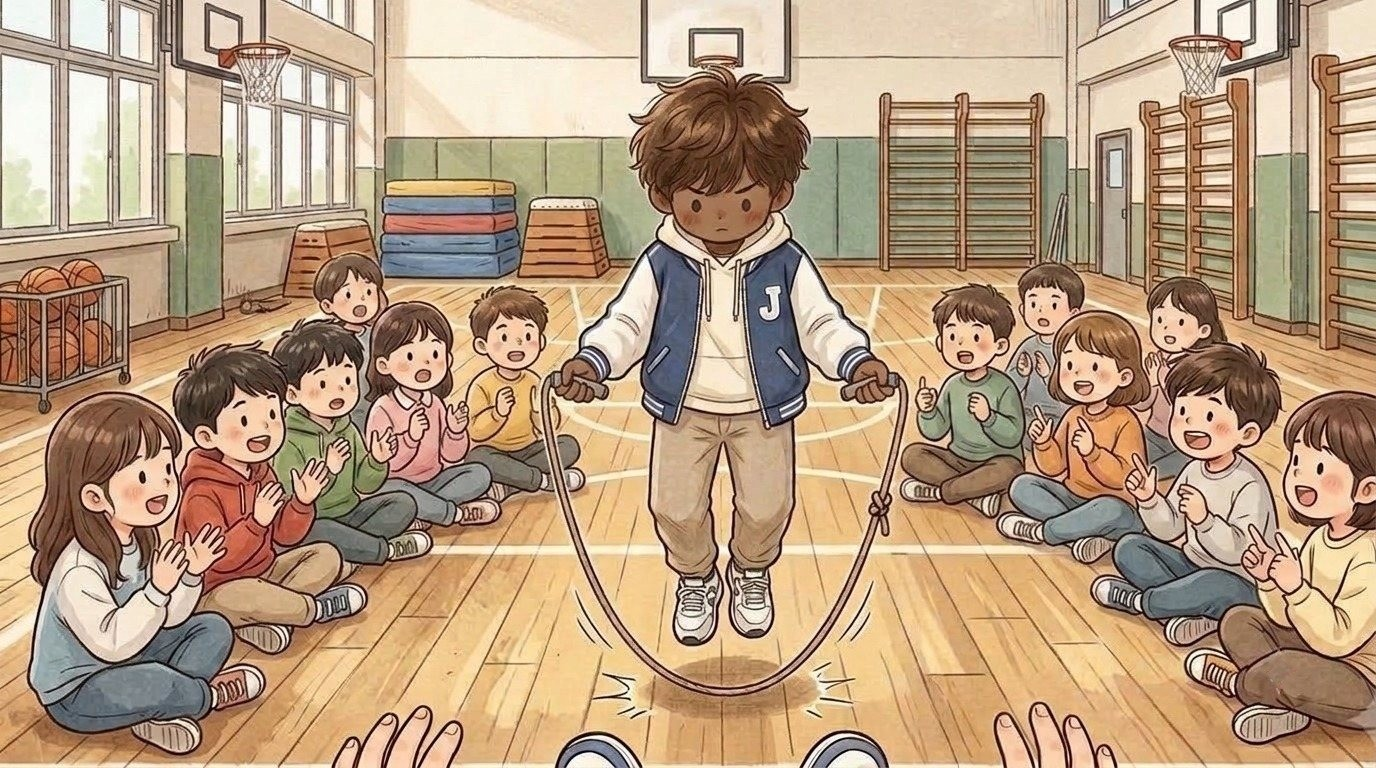
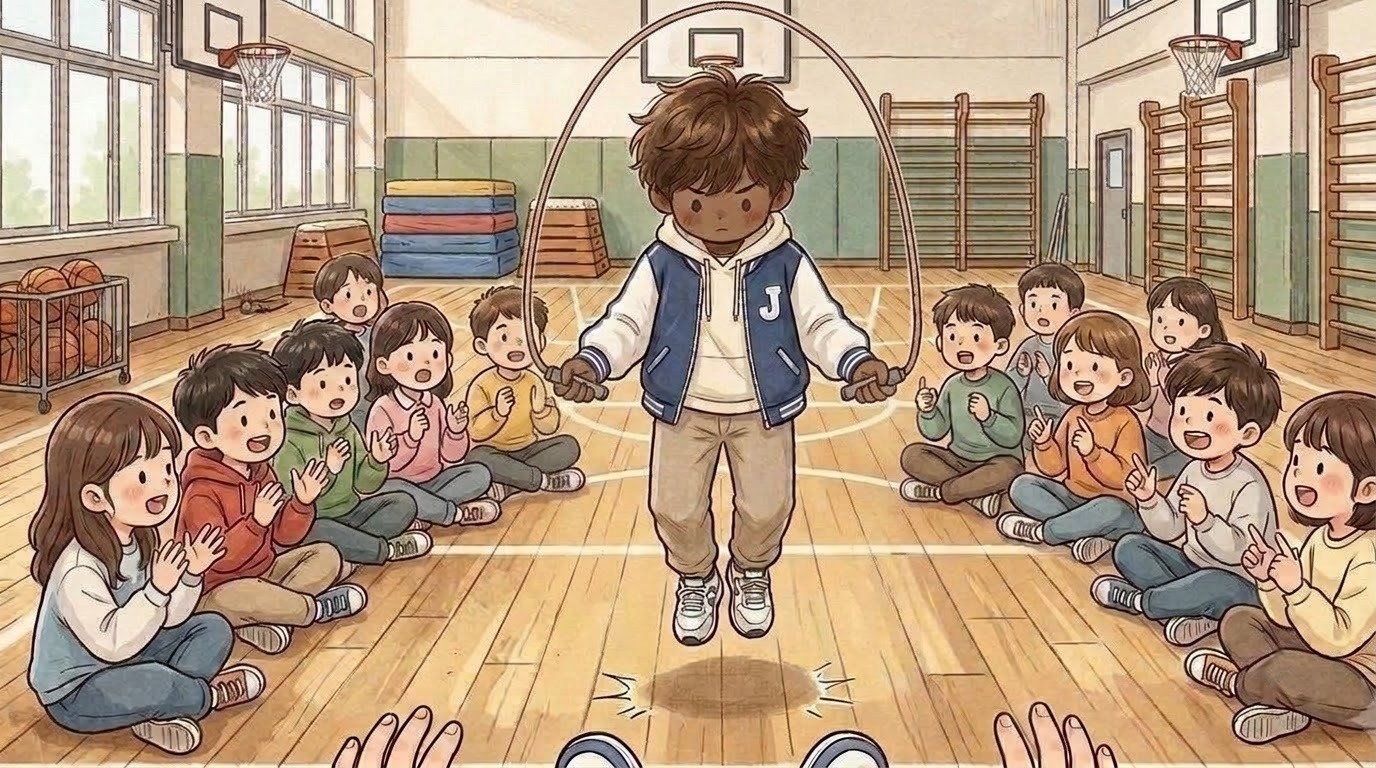
지호 08a·08b(Flow 새 그림) 반짝이 별 지움, 08b 새 그림 배포

diff --git a/index.html b/index.html
@@ -119,14 +119,14 @@ body,button{word-break:keep-all;overflow-wrap:break-word}
 <div id="fader"></div>
 <script>
 // same address, newest version: if the page this phone has kept is older than the one online, fetch the new one and reopen
-const BUILD='1109094702';
+const BUILD='1109095837';
 try{fetch(location.pathname,{cache:'no-store'}).then(r=>r.text()).then(t=>{const m=t.match(/const BUILD='(\d+)'/);if(m&&m[1]!==BUILD&&sessionStorage.getItem('upd')!==m[1]){sessionStorage.setItem('upd',m[1]);fetch(location.pathname,{cache:'reload'}).then(()=>location.reload())}}).catch(()=>{})}catch(e){}
 </script>
-<script src="i18n.js?v=1109094702"></script>
-<script src="i18n_prologue_v2.js?v=1109094702"></script>
-<script src="day2/i18n_engine.js?v=1109094702"></script>
-<script src="day2/data.js?v=1109094702"></script>
-<script src="day3/data.js?v=1109094702"></script>
+<script src="i18n.js?v=1109095837"></script>
+<script src="i18n_prologue_v2.js?v=1109095837"></script>
+<script src="day2/i18n_engine.js?v=1109095837"></script>
+<script src="day2/data.js?v=1109095837"></script>
+<script src="day3/data.js?v=1109095837"></script>
 <script>
 // ---------- data ----------
 const MW=1672,MH=941,KID=180;
@@ -569,36 +569,36 @@ function pickHero(){const m=document.getElementById('modal'),c=document.getEleme
  c.innerHTML=`<h2>${tr('전학생 반장되기')}</h2><p>${tr('한국말이 아직 서툰 전학생,<br>반장 선거에 나가다.')}</p><p style="margin-top:14px">${tr('누구로 할까요?')}</p>${(()=>{const s=loadSave();return s&&s.day>=2&&s.mode===UI+'-'+LANG?`<p><button class="big" id="cont">${tr('{n}일차부터 이어 하기').replace('{n}',s.day)}</button></p>`:''})()}<div class="pick heroes"><button data-h="hero_f"><img src="faces/hero_f_smile.jpg" alt="여자 주인공">${heroName(1)}</button><button data-h="hero_m"><img src="faces/hero_m_smile.jpg" alt="남자 주인공">${heroName(0)}</button></div>`;
  m.classList.add('on');{const cb=document.getElementById('cont');if(cb)cb.onclick=()=>{const s=loadSave();HERO=s.hero;Object.assign(HEART,s.heart||{});(s.found||[]).forEach(k=>FOUND.add(k));HEART_D1={...HEART};chime();(typeof contGame==='function'?contGame(s):startDay(Math.min(s.day,Object.keys(window.D3||{}).length?3:2)))}}c.querySelectorAll('.pick button').forEach(b=>b.onclick=()=>{HERO=b.dataset.h;m.classList.remove('on');chime();bgm('day');load('home_am');say([['nar','','이사 온 다음 날 아침. 아직 풀지 못한 상자들이 쌓여 있다.'],['think','sad','(오늘부터 새 학교야. 여기 말도 아직 서툰데…….)'],['think','smile','({m}한테 인사하고 학교 가야지.)']],morning)})}
 </script>
-<script src="day2/engine.js?v=1109094702"></script>
-<script src="day2/ep_minho.js?v=1109094702"></script>
-<script src="day2/meet.js?v=1109094702"></script>
-<script src="day2/ep_sua.js?v=1109094702"></script>
-<script src="day2/ep_hangyeol.js?v=1109094702"></script>
-<script src="day2/ep_siwoo.js?v=1109094702"></script>
-<script src="day2/ep_haram.js?v=1109094702"></script>
-<script src="day2/ep_jiho.js?v=1109094702"></script>
-<script src="day2/ep_hyeeun.js?v=1109094702"></script>
-<script src="day2/ep_haneul.js?v=1109094702"></script>
-<script src="day2/ep_junho.js?v=1109094702"></script>
-<script src="day2/ep_yuna.js?v=1109094702"></script>
-<script src="day2/ep_yena.js?v=1109094702"></script>
-<script src="day2/ep_haeun.js?v=1109094702"></script>
-<script src="day2/ep_youngmin.js?v=1109094702"></script>
-<script src="day2/ep_seah.js?v=1109094702"></script>
-<script src="day2/ep_jihoon.js?v=1109094702"></script>
-<script src="words_ja_ru.js?v=1109094702"></script>
-<script src="day2/mybag.js?v=1109094702"></script>
-<script src="day2/wordpics.js?v=1109094702"></script>
-<script src="day2/spots.js?v=1109094702"></script>
-<script src="day2/textfit.js?v=1109094702"></script>
-<script src="day2/tester.js?v=1109094702"></script>
-<script src="day2/ux.js?v=1109094702"></script>
-<script src="day2/tapword.js?v=1109094702"></script>
-<script src="day2/review.js?v=1109094702"></script>
-<script src="day2/plane.js?v=1109094702"></script>
-<script src="day2/bubble.js?v=1109094702"></script>
-<script src="day2/ep_ending.js?v=1109094702"></script>
-<script src="day2/ending.js?v=1109094702"></script>
+<script src="day2/engine.js?v=1109095837"></script>
+<script src="day2/ep_minho.js?v=1109095837"></script>
+<script src="day2/meet.js?v=1109095837"></script>
+<script src="day2/ep_sua.js?v=1109095837"></script>
+<script src="day2/ep_hangyeol.js?v=1109095837"></script>
+<script src="day2/ep_siwoo.js?v=1109095837"></script>
+<script src="day2/ep_haram.js?v=1109095837"></script>
+<script src="day2/ep_jiho.js?v=1109095837"></script>
+<script src="day2/ep_hyeeun.js?v=1109095837"></script>
+<script src="day2/ep_haneul.js?v=1109095837"></script>
+<script src="day2/ep_junho.js?v=1109095837"></script>
+<script src="day2/ep_yuna.js?v=1109095837"></script>
+<script src="day2/ep_yena.js?v=1109095837"></script>
+<script src="day2/ep_haeun.js?v=1109095837"></script>
+<script src="day2/ep_youngmin.js?v=1109095837"></script>
+<script src="day2/ep_seah.js?v=1109095837"></script>
+<script src="day2/ep_jihoon.js?v=1109095837"></script>
+<script src="words_ja_ru.js?v=1109095837"></script>
+<script src="day2/mybag.js?v=1109095837"></script>
+<script src="day2/wordpics.js?v=1109095837"></script>
+<script src="day2/spots.js?v=1109095837"></script>
+<script src="day2/textfit.js?v=1109095837"></script>
+<script src="day2/tester.js?v=1109095837"></script>
+<script src="day2/ux.js?v=1109095837"></script>
+<script src="day2/tapword.js?v=1109095837"></script>
+<script src="day2/review.js?v=1109095837"></script>
+<script src="day2/plane.js?v=1109095837"></script>
+<script src="day2/bubble.js?v=1109095837"></script>
+<script src="day2/ep_ending.js?v=1109095837"></script>
+<script src="day2/ending.js?v=1109095837"></script>
 <script>
 // the goal shows big for a few seconds, then folds into a small pill (tap it to open it again)
 {const g=document.getElementById('goal');let t=null;const big=()=>{g.classList.remove('mini');clearTimeout(t);t=setTimeout(()=>g.classList.add('mini'),4000)};
